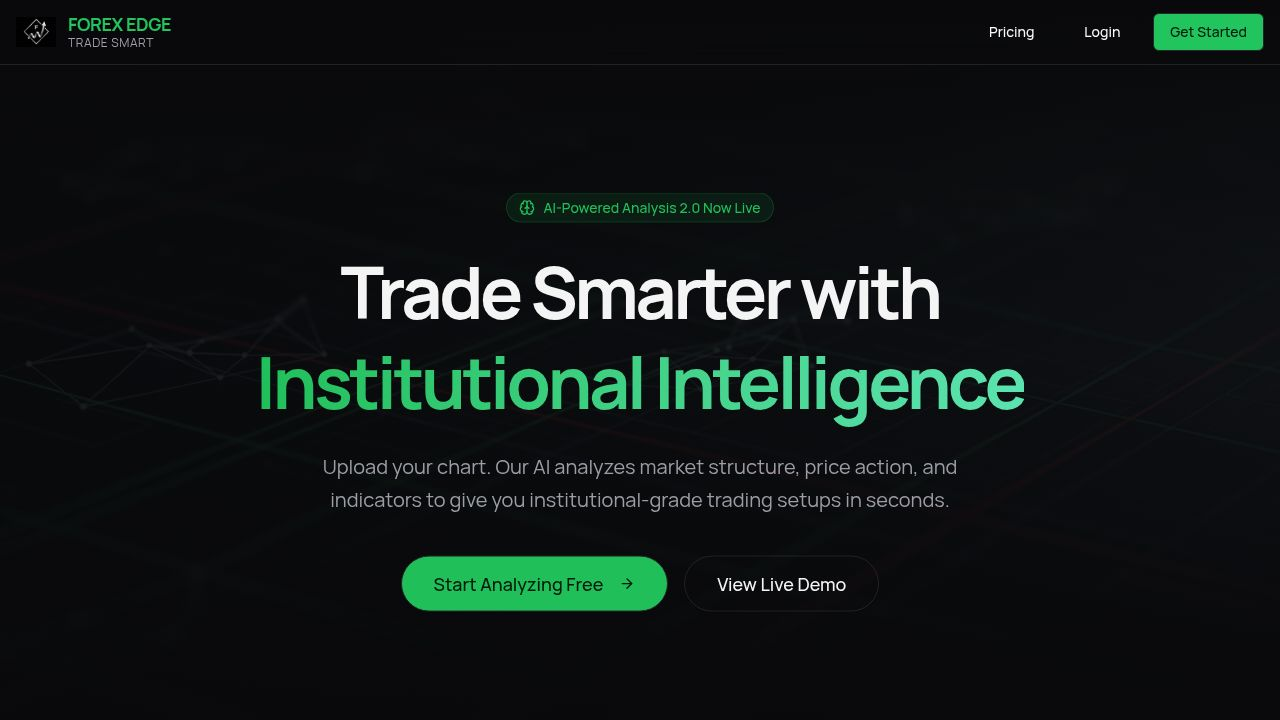
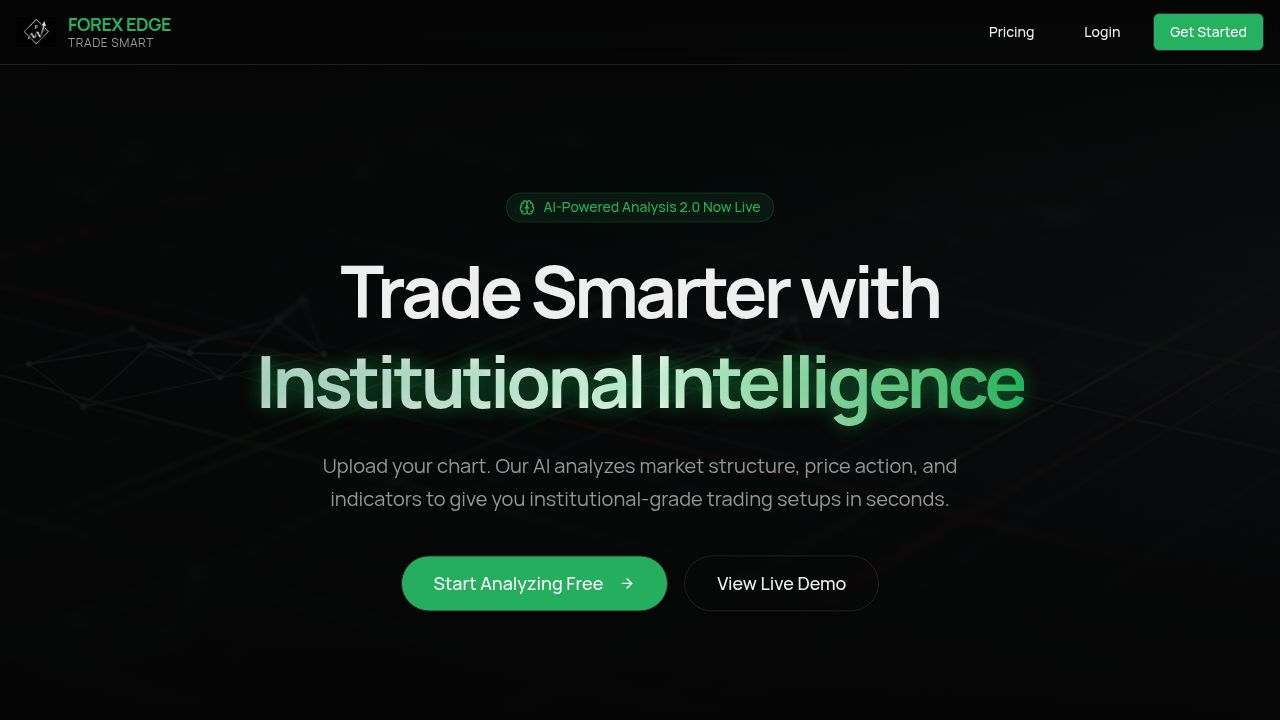
Update the application's color scheme to incorporate green accents
Modify CSS variables in `index.css` to redefine primary, accent, and chart colors, introducing green as the primary accent. Update `Landing.tsx` to reflect the new color scheme in gradients and card shadows.

Replit-Commit-Author: Agent
Replit-Commit-Session-Id: c0600105-3256-4676-b5b9-59e7471a8cfd
Replit-Commit-Checkpoint-Type: full_checkpoint
Replit-Commit-Event-Id: 5cb12f8f-dfd3-4fac-8cd7-35398bd824dc
Replit-Commit-Screenshot-Url: https://storage.googleapis.com/screenshot-production-us-central1/d80566d5-f366-4e99-b5e9-9395b57e9ec1/c0600105-3256-4676-b5b9-59e7471a8cfd/C3OP5zh
Replit-Helium-Checkpoint-Created: true

diff --git a/client/src/index.css b/client/src/index.css
@@ -58,7 +58,7 @@
   --color-sidebar-ring: hsl(var(--sidebar-ring));
 }
 
-/* Silver & Black Premium Theme - Matching Logo */
+/* Silver, Black & Green Premium Theme - Matching Logo */
 :root {
   --background: 0 0% 2%; /* Pure black */
   --foreground: 0 0% 95%;
@@ -69,8 +69,8 @@
   --popover: 0 0% 4%;
   --popover-foreground: 0 0% 95%;
 
-  --primary: 0 0% 75%; /* Silver/Metallic */
-  --primary-foreground: 0 0% 5%; /* Black text on silver */
+  --primary: 145 65% 42%; /* Green accent */
+  --primary-foreground: 0 0% 98%; /* White text on green */
 
   --secondary: 0 0% 12%; /* Dark Grey */
   --secondary-foreground: 0 0% 95%;
@@ -78,32 +78,32 @@
   --muted: 0 0% 15%;
   --muted-foreground: 0 0% 60%;
 
-  --accent: 0 0% 20%; /* Lighter grey for accents */
-  --accent-foreground: 0 0% 95%;
+  --accent: 0 0% 75%; /* Silver for accents */
+  --accent-foreground: 0 0% 5%;
 
   --destructive: 0 72% 51%; /* Red (Loss/Danger) */
   --destructive-foreground: 0 0% 98%;
 
   --border: 0 0% 18%;
   --input: 0 0% 12%;
-  --ring: 0 0% 70%;
+  --ring: 145 65% 42%;
 
   --radius: 0.5rem;
 
-  --chart-1: 142 71% 45%; /* Green for profit */
+  --chart-1: 145 65% 42%; /* Green for profit */
   --chart-2: 0 72% 51%;   /* Red for loss */
-  --chart-3: 0 0% 60%;    /* Silver */
+  --chart-3: 0 0% 70%;    /* Silver */
   --chart-4: 0 0% 40%;    /* Dark silver */
-  --chart-5: 0 0% 80%;    /* Light silver */
+  --chart-5: 0 0% 85%;    /* Light silver */
 
   --sidebar: 0 0% 3%;
   --sidebar-foreground: 0 0% 90%;
-  --sidebar-primary: 0 0% 75%;
-  --sidebar-primary-foreground: 0 0% 5%;
+  --sidebar-primary: 145 65% 42%;
+  --sidebar-primary-foreground: 0 0% 98%;
   --sidebar-accent: 0 0% 15%;
   --sidebar-accent-foreground: 0 0% 90%;
   --sidebar-border: 0 0% 18%;
-  --sidebar-ring: 0 0% 70%;
+  --sidebar-ring: 145 65% 42%;
 }
 
 @layer base {
@@ -134,10 +134,10 @@
 /* Custom Utility Classes */
 @layer utilities {
   .text-glow {
-    text-shadow: 0 0 15px rgba(180, 180, 180, 0.6);
+    text-shadow: 0 0 20px rgba(34, 197, 94, 0.5);
   }
   .border-glow {
-    box-shadow: 0 0 15px rgba(180, 180, 180, 0.15);
+    box-shadow: 0 0 20px rgba(34, 197, 94, 0.15);
   }
   .bg-grid-pattern {
     background-image: linear-gradient(to right, #1a1a1a 1px, transparent 1px),
@@ -152,5 +152,8 @@
     -webkit-background-clip: text;
     -webkit-text-fill-color: transparent;
     background-clip: text;
+  }
+  .green-glow {
+    box-shadow: 0 0 30px rgba(34, 197, 94, 0.2);
   }
 }

diff --git a/client/src/pages/Landing.tsx b/client/src/pages/Landing.tsx
@@ -58,7 +58,7 @@ export default function Landing() {
             </div>
             <h1 className="text-4xl md:text-7xl font-bold tracking-tighter mb-6 max-w-4xl mx-auto leading-tight">
               Trade Smarter with <br />
-              <span className="text-transparent bg-clip-text bg-gradient-to-r from-white to-primary text-glow">Institutional Intelligence</span>
+              <span className="text-transparent bg-clip-text bg-gradient-to-r from-gray-300 via-white to-primary text-glow">Institutional Intelligence</span>
             </h1>
             <p className="text-xl text-muted-foreground max-w-2xl mx-auto mb-10 leading-relaxed">
               Upload your chart. Our AI analyzes market structure, price action, and indicators to give you institutional-grade trading setups in seconds.
@@ -139,7 +139,7 @@ export default function Landing() {
             </Card>
 
             {/* Pro Plan */}
-            <Card className="relative overflow-hidden border-primary shadow-[0_0_40px_rgba(180,180,180,0.15)]">
+            <Card className="relative overflow-hidden border-primary shadow-[0_0_40px_rgba(34,197,94,0.15)]">
               <div className="absolute top-0 right-0 bg-primary text-black text-xs font-bold px-3 py-1 rounded-bl-lg">POPULAR</div>
               <CardHeader>
                 <CardTitle className="text-2xl">Pro Trader</CardTitle>
